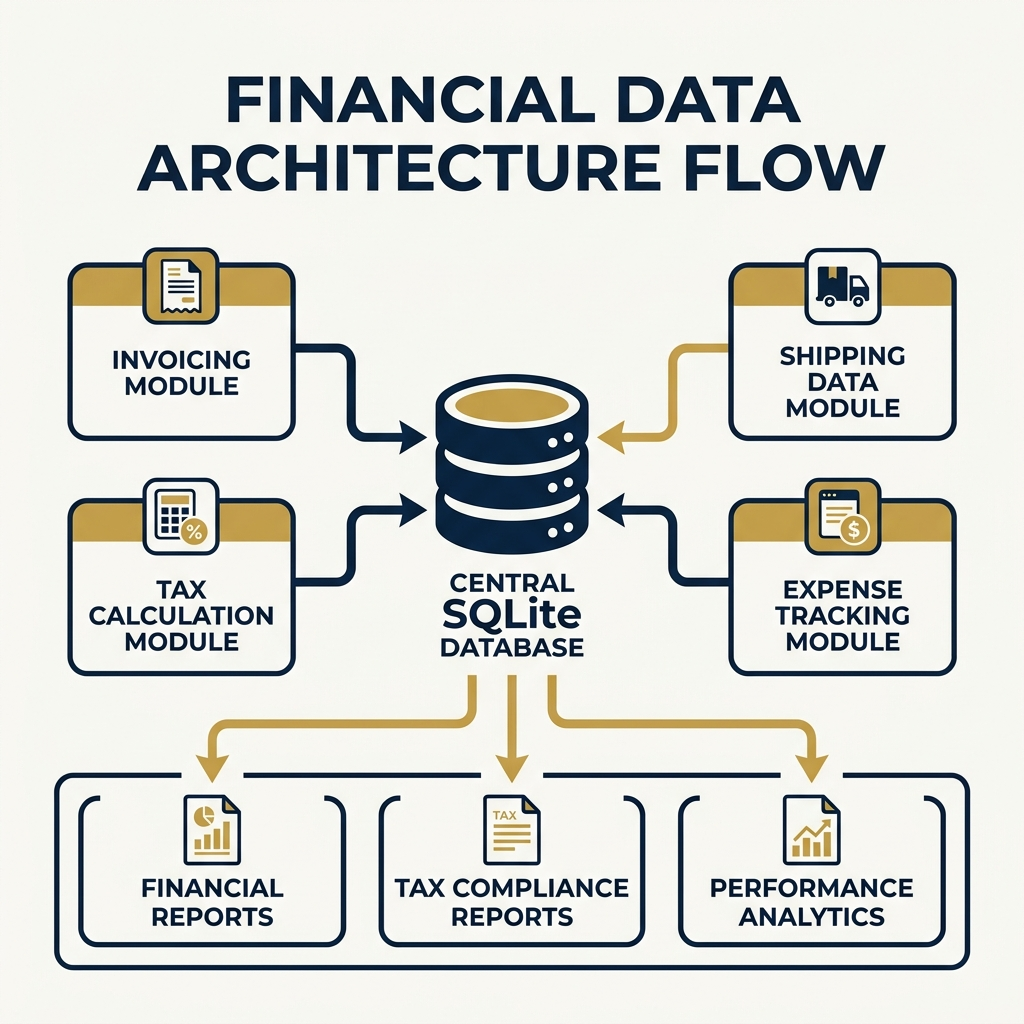
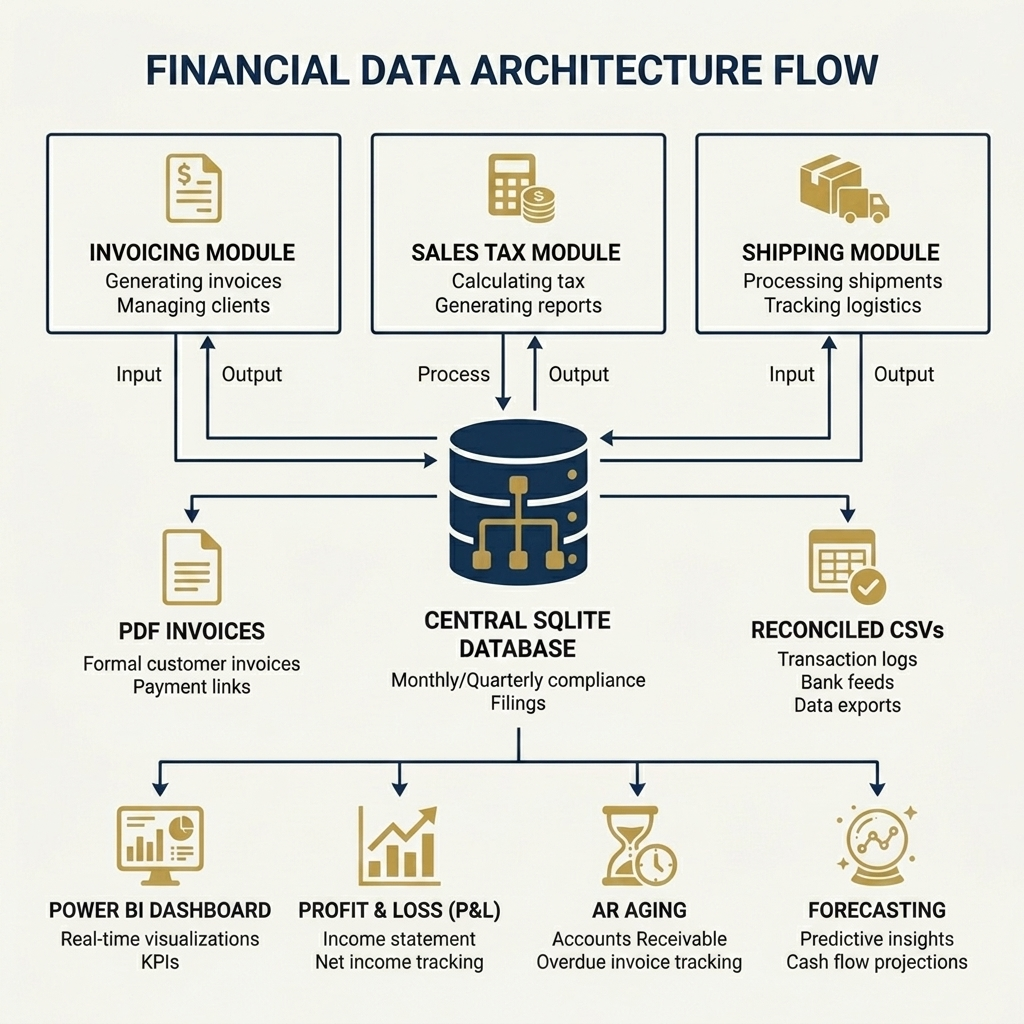
docs: replace programmatic PDF drawing with user-provided PNG layout with corrected title

Changed region(s): [[0.0312, 0.0312, 0.9688, 0.9688]]

diff --git a/case_study/generate_case_study_pdf.py b/case_study/generate_case_study_pdf.py
@@ -368,16 +368,16 @@ def convert_md_to_pdf(md_path, pdf_path):
                 # Check if this code block represents the system architecture diagram
                 is_architecture = any("Relational Data Layer" in l or "Central SQLite Database" in l or "nexoria" in l or "01. Invoicing" in l for l in code_block_lines)
                 if is_architecture:
-                    drawing = create_architecture_drawing()
-                    drawing_table = Table([[drawing]], colWidths=[522])
-                    drawing_table.setStyle(TableStyle([
+                    from reportlab.platypus import Image as RLImage
+                    img_path = os.path.join(base_dir, "..", "docs", "architecture_diagram.png")
+                    img = RLImage(img_path, width=240, height=240)
+                    img_table = Table([[img]], colWidths=[522])
+                    img_table.setStyle(TableStyle([
                         ('ALIGN', (0,0), (-1,-1), 'CENTER'),
-                        ('LEFTPADDING', (0,0), (-1,-1), 0),
-                        ('RIGHTPADDING', (0,0), (-1,-1), 0),
-                        ('TOPPADDING', (0,0), (-1,-1), 0),
-                        ('BOTTOMPADDING', (0,0), (-1,-1), 0),
+                        ('BOTTOMPADDING', (0,0), (-1,-1), 6),
+                        ('TOPPADDING', (0,0), (-1,-1), 6),
                     ]))
-                    story.append(drawing_table)
+                    story.append(img_table)
                 else:
                     # Draw a code block table
                     code_table_data = [[Paragraph("<br/>".join(code_block_lines), code_style)]]